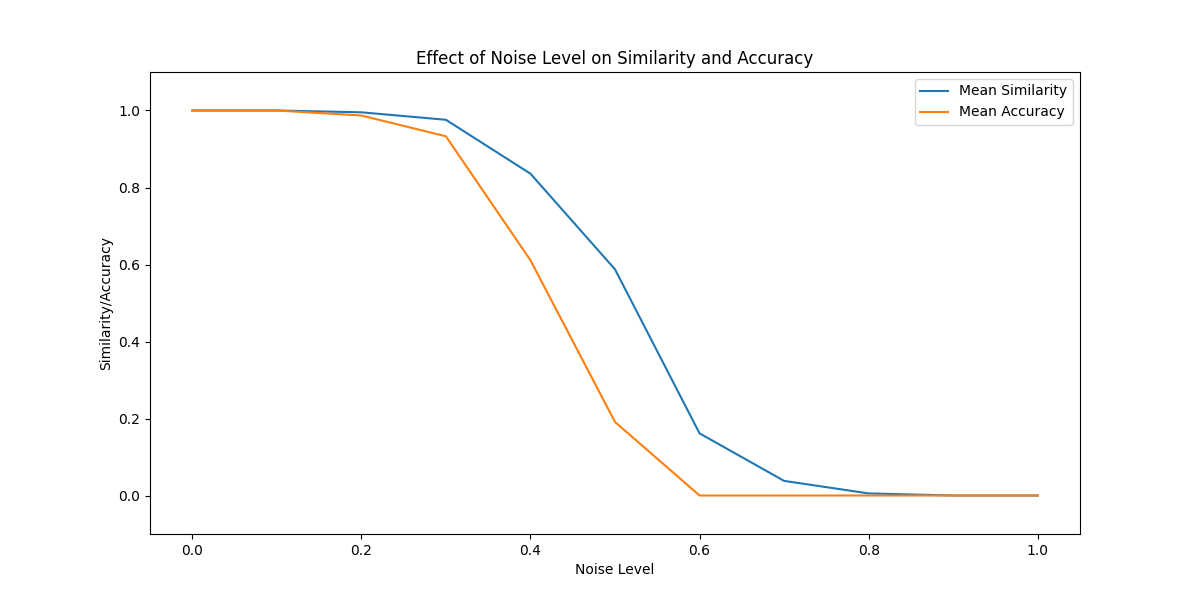
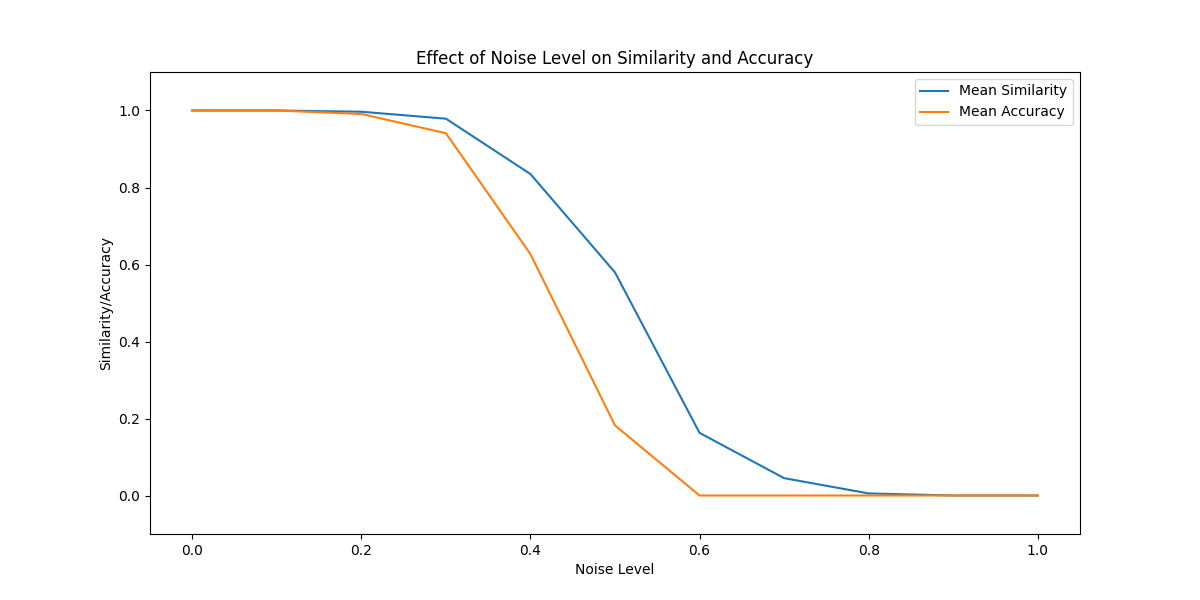
fix randomness

diff --git a/experiments.py b/experiments.py
@@ -27,10 +27,10 @@ num_trials = 1000
                 
 # %% 実験1: パターンを1つ記憶し、ノイズを15%加えてネットワークを実行
 # ネットワークを作成
-network = HopfieldNetwork(input_shape=(5, 5))
+network1 = HopfieldNetwork(input_shape=(5, 5))
 
 # 1つだけパターンを記憶
-network.train([patterns[0]])
+network1.train([patterns[0]])
 
 # run the network with noise added to the pattern
 mean_similarity = 0.0
@@ -38,7 +38,7 @@ mean_accuracy = 0.0
 
 for i in range(num_trials):
     noisy_pattern = add_noise(patterns[0], noise_level=noise_level)
-    result = network.run(noisy_pattern)
+    result = network1.run(noisy_pattern)
     similarity = np.mean(result == patterns[0])
     mean_similarity += similarity
     mean_accuracy += similarity == 1.0
@@ -53,18 +53,19 @@ print(f'Mean Accuracy: {mean_accuracy}')
 
 # %% 実験2: 記憶するパターンを6種類まで徐々に増やし、ノイズを15%加えてネットワークを実行
 network2 = HopfieldNetwork(input_shape=(5, 5))
-
 mean_similarities = []
 mean_accuracies = []
 
 for i in range(1, 7):
+    np.random.shuffle(patterns)
     network2.train(patterns[:i])
     mean_similarity = 0.0
     mean_accuracy = 0.0
     for j in range(num_trials):
-        noisy_pattern = add_noise(patterns[0], noise_level=noise_level)
+        pattern_idx = np.random.randint(i)
+        noisy_pattern = add_noise(patterns[pattern_idx], noise_level=noise_level)
         result = network2.run(noisy_pattern)
-        similarity = np.mean(result == patterns[0])
+        similarity = np.mean(result == patterns[pattern_idx])
         mean_similarity += similarity
         mean_accuracy += similarity == 1.0
     mean_similarity /= num_trials
@@ -94,9 +95,10 @@ for noise_level in np.linspace(0, 1, 11):
     mean_similarity = 0.0
     mean_accuracy = 0.0
     for j in range(num_trials):
-        noisy_pattern = add_noise(patterns[0], noise_level=noise_level)
+        pattern_idx = np.random.randint(2)
+        noisy_pattern = add_noise(patterns[pattern_idx], noise_level=noise_level)
         result = network3.run(noisy_pattern)
-        similarity = np.mean(result == patterns[0])
+        similarity = np.mean(result == patterns[pattern_idx])
         mean_similarity += similarity
         mean_accuracy += similarity == 1.0
     mean_similarity /= num_trials
@@ -126,9 +128,10 @@ for noise_level in np.linspace(0, 1, 11):
     mean_similarity = 0.0
     mean_accuracy = 0.0
     for j in range(num_trials):
-        noisy_pattern = add_noise(patterns[0], noise_level=noise_level)
+        pattern_idx = np.random.randint(4)
+        noisy_pattern = add_noise(patterns[pattern_idx], noise_level=noise_level)
         result = network4.run(noisy_pattern)
-        similarity = np.mean(result == patterns[0])
+        similarity = np.mean(result == patterns[pattern_idx])
         mean_similarity += similarity
         mean_accuracy += similarity == 1.0
     mean_similarity /= num_trials
@@ -155,13 +158,15 @@ mean_similarities = []
 mean_accuracies = []
 
 for i in range(1, 101):
+    np.random.shuffle(patterns)
     network5.train(patterns[:i])
     mean_similarity = 0.0
     mean_accuracy = 0.0
     for j in range(num_trials):
-        noisy_pattern = add_noise(patterns[0], noise_level=0.15)
+        pattern_idx = np.random.randint(i)
+        noisy_pattern = add_noise(patterns[pattern_idx], noise_level=0.15)
         result = network5.run(noisy_pattern)
-        similarity = np.mean(result == patterns[0])
+        similarity = np.mean(result == patterns[pattern_idx])
         mean_similarity += similarity
         mean_accuracy += similarity == 1.0
     mean_similarity /= num_trials
